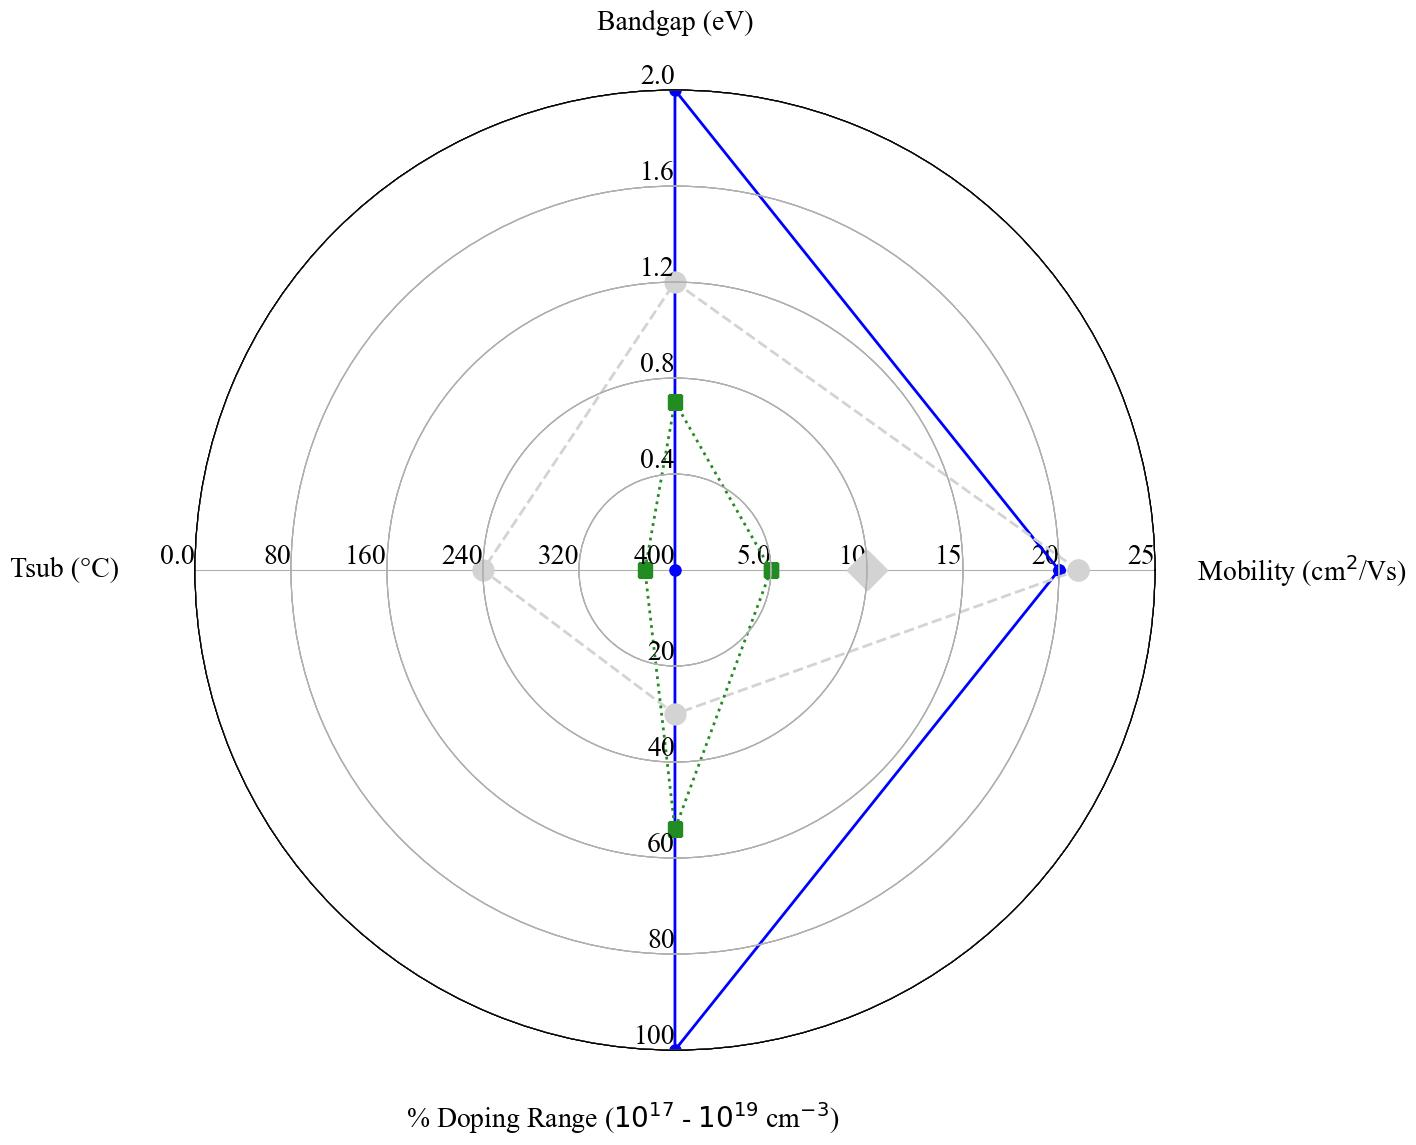
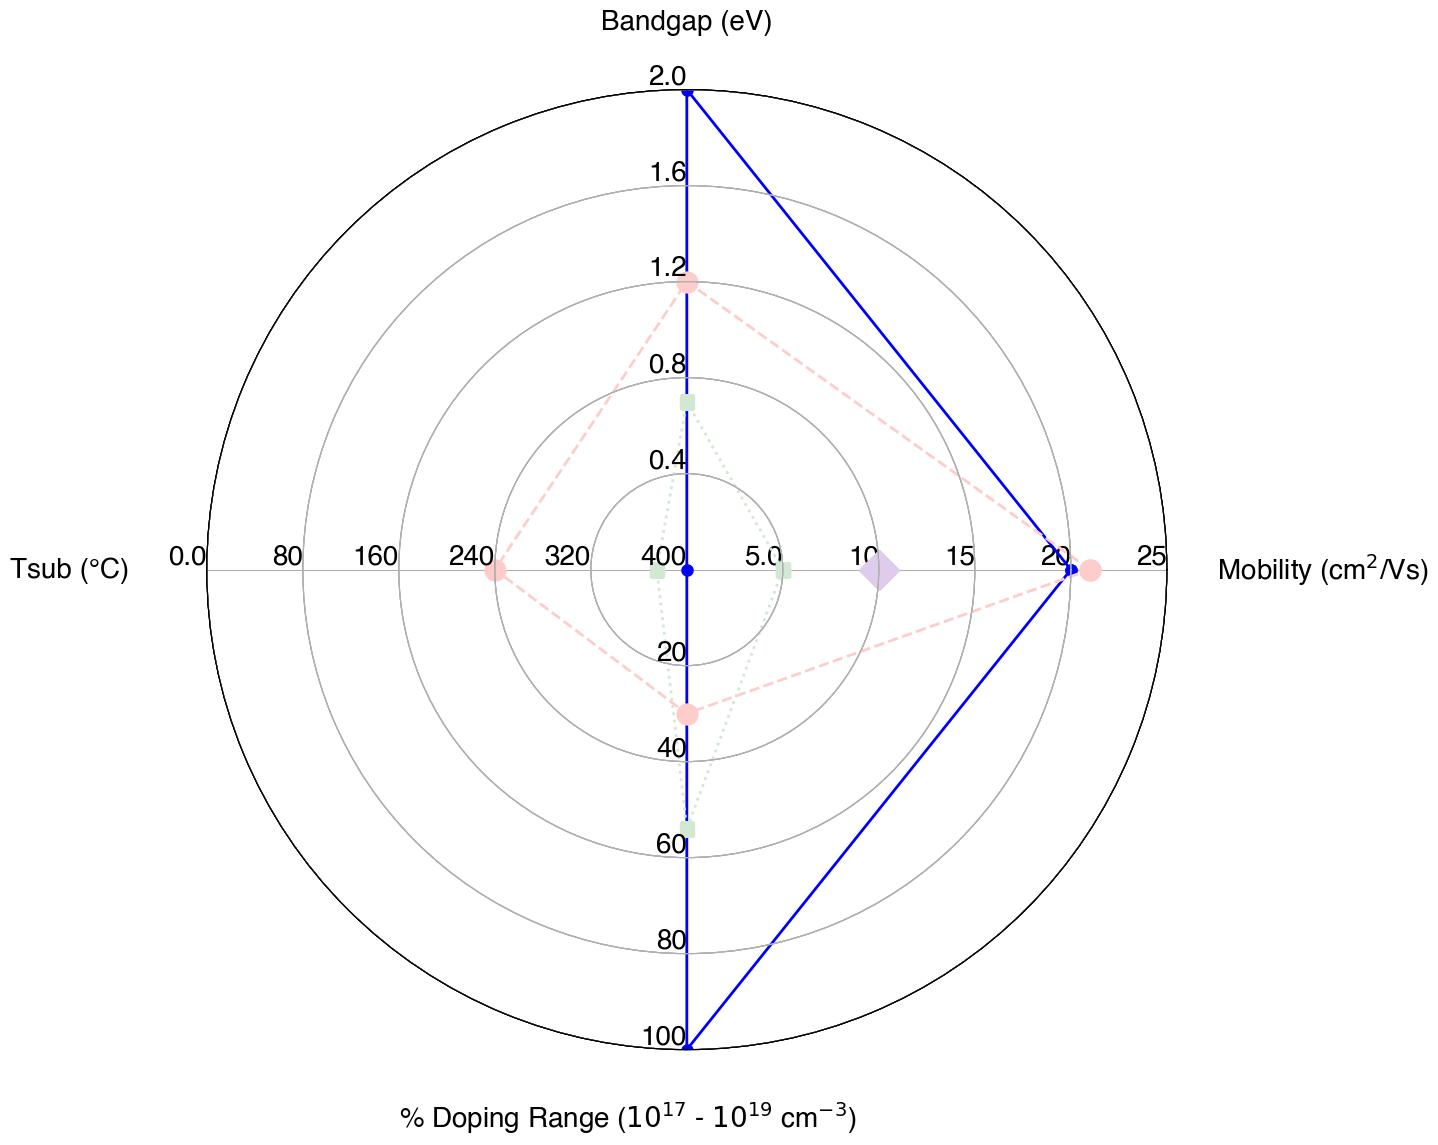
Added selective emphasis in saved image.

diff --git a/radargraphmaker.py b/radargraphmaker.py
@@ -7,14 +7,15 @@ import mplcursors
 import webbrowser
 from matplotlib.widgets import Button
 from matplotlib.patches import FancyBboxPatch
+import matplotlib.colors as mcolors
 
 # Read data from Excel
 file_path = 'DataToPlot.xlsx'  # Replace with your Excel file path
 df = pd.read_excel(file_path)
 
 # Extract properties and data
-properties_df = df.iloc[:11]  # Assuming first 10 rows include new rows for font size, font family, and series names
-data_df = df.iloc[11:]
+properties_df = df.iloc[:12]  # Assuming first 10 rows include new rows for font size, font family, and series names
+data_df = df.iloc[12:]
 
 # Extract font size and font family
 font_size = int(properties_df[properties_df['Categories'] == 'Font Size'].iloc[0, 3])
@@ -25,12 +26,10 @@ legend_flag = properties_df['Legend'].iloc[0] == 'Yes'
 
 
 emphasize_series_row = properties_df[properties_df['Categories'] == 'Emphasize Series']
-print("Emphasize Series Row:")
-print(emphasize_series_row)
-
 emphasize_series_flags = emphasize_series_row.iloc[0, 3:]
-print("Emphasize Series Flags:")
-print(emphasize_series_flags)
+
+include_series_row = properties_df[properties_df['Categories'] == 'Include']
+include_series_flags = include_series_row.iloc[0, 3:]
 
 # Dynamically allocate columns
 series_columns = [col for col in properties_df.columns if 'Series' in col]
@@ -99,10 +98,19 @@ def rgb_to_hex(rgb_str):
     rgb = rgb_str.replace('rgb(', '').replace(')', '').split(',')
     return '#{:02x}{:02x}{:02x}'.format(int(rgb[0]), int(rgb[1]), int(rgb[2]))
 
+def lighten_color(color, amount=0.5):
+    try:
+        c = mcolors.cnames[color]
+    except:
+        c = color
+    c = mcolors.to_rgb(c)
+    return mcolors.to_hex([min(1, x + (1 - x) * amount) for x in c])
+
+
 def adjust_color_for_export(color, emphasize_flag):
     if emphasize_flag:
         return color
-    return '#d3d3d3'
+    return lighten_color(color, amount=0.8)
 
 class ComplexRadar():
     def __init__(self, fig, variables, ranges, n_ordinate_levels=6, font_size=10):
@@ -227,6 +235,9 @@ radar.clear_annotations()
 # Plot each series
 for i, series in enumerate(data):
     series_name = series_names[i]
+    include_flag = include_series_flags.iloc[i]
+    if not include_flag:
+        continue
     print(f"Plotting series: {series_name}")
     radar.plot(series, properties[series_name], series_name, annotate_masks[series_name])
 
@@ -295,6 +306,11 @@ if save_image:
     newradar = ComplexRadar(fig2, categories, ranges, font_size=font_size)
     for i, series in enumerate(data):
         series_name = series_names[i]
+        include_flag = include_series_flags.iloc[i]
+
+        if not include_flag:
+            continue
+
         emphasize_flag = emphasize_series_flags.iloc[i]
         emphasize_flag = emphasize_flag == True
         print(f"Series: {series_name}, Emphasize: {emphasize_flag}")

diff --git a/Readme.md b/Readme.md
@@ -1,6 +1,6 @@
 Radar Chart Plotting Script
 
-This script generates a radar chart from an Excel file and supports interactive annotations and saving the chart as an image.
+This script generates a radar chart from an Excel file and supports features such as dynamic scaling, customizable plot properties, interactive annotations, and selective emphasis of series in an exported image.
 
 
 Prerequisites
@@ -17,12 +17,17 @@ You can install these libraries using pip: pip install pandas numpy matplotlib m
 
 Excel File Format
 
-The Excel file DataToPlot.xlsx provides the expected structure of the spreadsheet, with the properties section in the first 10 rows and the data section starting from row 11
+The Excel file DataToPlot.xlsx provides the expected structure of the spreadsheet, with the properties section in the first 12 rows and the data section starting from row 13.
+
+Series are represented in columns, and checkboxes are used to indicate inclusion in the graph.
 
 
 Usage
 
 Ensure your Excel file DataToPlot.xlsx is properly formatted as described above.
+
+Adjust "Save Image" and "Legend" flags to indicate preference.
+
 Run the script: python radargraphmaker.py
 
 
@@ -38,8 +43,8 @@ Save the chart as an image if specified in the Excel file.
 Features
 
 Interactive Annotations: Hover over data points to see annotations.
-Customizable Appearance: Define colors, line types, markers, and more in the Excel file.
-Save Chart: Optionally save the generated chart as an image.
+Customizable Appearance: Define colors, line types, markers, presence of legend, and more in the Excel file.
+Save Chart: Optionally save the generated chart as an image. Additionally, specify traces to be emphasized in the saved image.
 
 
 Notes
